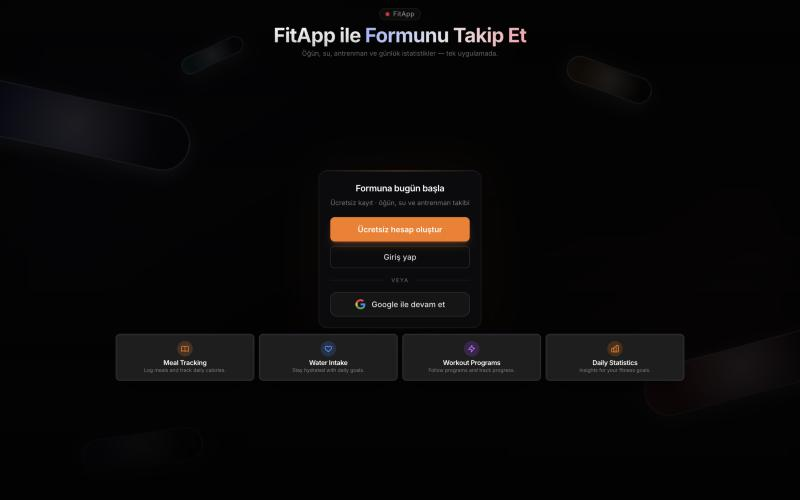
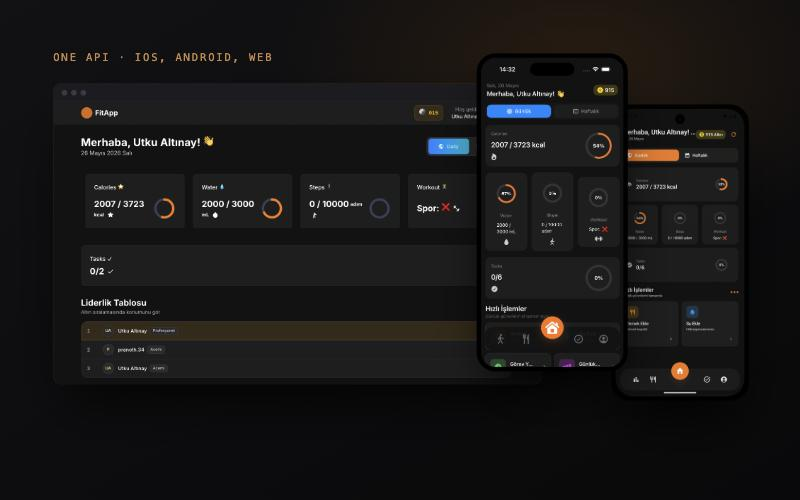
FitApp: real screenshots from all three clients, and a case study that matches them
The archive of device screenshots replaces the one remaining stand-in
cover: the new one puts the same dashboard on the web, on iOS and on
Android at once, which is the thing the project is actually about.

The write-up is rewritten against the four repositories rather than from
memory, because the screenshots show features the old copy never
mentioned. Corrections: the web client is Next.js, not plain React; the
API is .NET 8 over MySQL (Pomelo) on AWS with Cloudinary for media; and
the dates were a year out. Added, because they exist: a Gemini-backed
coach that runs server-side, daily and friend quests, a gold balance and
shop, a leaderboard, and chat over SignalR.

The unverifiable claim about Swift Charts is gone, replaced by decisions
the code can back up.

Changed region(s): [[0.0625, 0.0, 0.9375, 0.81], [0.0625, 0.09, 0.3438, 0.12]]

diff --git a/src/data/projects.ts b/src/data/projects.ts
@@ -9,75 +9,123 @@ const projectsData = [
   {
     slug: "fitapp",
     title: "FitApp",
-    tagline: "A cross-platform health tracker on a single shared backend.",
+    tagline: "One .NET API, three native clients, and the habits that keep someone coming back.",
     problem:
-      "Fitness tracking data is only useful when it follows the person, not the device. Building the same feature set three times — once per platform — would have meant three sources of truth and three sets of bugs.",
+      "Fitness tracking data is only useful when it follows the person, not the device — and a tracker nobody opens after the second week is not useful at all. Building the same feature set three times, once per platform, would have meant three sources of truth and three sets of bugs; building only the tracking would have meant an app with nothing to come back for.",
     solution:
-      "I designed one C# .NET API over MySQL as the single source of truth, then built thin native clients on top of it: SwiftUI on iOS, Kotlin on Android and React on the web. Auth, validation and business rules live in the API; the clients only present state and collect input.",
+      "One C# .NET 8 API over MySQL as the single source of truth, with thin clients on top: SwiftUI on iOS, Kotlin on Android and Next.js on the web. Beyond logging meals, water, steps and workouts, the server runs what makes it a habit — a Gemini-backed coach, daily and friend quests, a gold balance with a shop, a leaderboard, and chat over SignalR. Auth, validation and every rule live in the API; the clients present state and collect input.",
     impact:
-      "Adding a feature means one API change and three presentation layers, instead of three parallel implementations that drift apart.",
-    role: "Solo developer — API design, data model, all three clients and deployment.",
+      "A feature is one API change and three presentation layers, instead of three implementations that drift apart — and the reason to open it on day thirty is a server-side system rather than a notification.",
+    role:
+      "Solo developer — API design, data model, all three clients and deployment.",
     domain: "full-stack",
     status: "live",
     featured: true,
-    period: { start: "2025-06", end: "2025-09" },
+    period: { start: "2026-05", end: null },
     stack: [
       { name: "C#", kind: "language" },
-      { name: ".NET", kind: "framework" },
-      { name: "MySQL", kind: "database" },
       { name: "Swift", kind: "language" },
-      { name: "SwiftUI", kind: "framework" },
       { name: "Kotlin", kind: "language" },
-      { name: "React", kind: "framework" },
+      { name: "TypeScript", kind: "language" },
+      { name: ".NET 8", kind: "framework" },
+      { name: "SwiftUI", kind: "framework" },
+      { name: "Next.js", kind: "framework" },
+      { name: "EF Core", kind: "framework" },
+      { name: "SignalR", kind: "framework" },
+      { name: "MySQL", kind: "database" },
+      { name: "AWS", kind: "platform" },
       { name: "JWT", kind: "tooling" },
     ],
     architecture: [
       {
         name: "Clients",
-        tech: ["SwiftUI (iOS)", "Kotlin (Android)", "React (Web)"],
+        tech: ["SwiftUI (iOS)", "Kotlin (Android)", "Next.js (Web)"],
         responsibility:
-          "Render state and capture input. No business rules, so no platform can disagree with another.",
+          "Render state and capture input. No business rules, so no platform can disagree with another about a calorie, a streak or a balance.",
       },
       {
         name: "API",
-        tech: ["C# .NET", "JWT"],
+        tech: [".NET 8", "JWT", "BCrypt", "Google sign-in"],
         responsibility:
-          "Authentication, validation, calorie and activity calculations — the one place a rule is written down.",
+          "Authentication, validation and every calculation — the one place a rule is written down, behind an OpenAPI document the clients are built against.",
       },
       {
-        name: "Persistence",
-        tech: ["MySQL"],
+        name: "Engagement services",
+        tech: ["Gemini", "SignalR", "Daily & friend quests", "Gold and shop"],
         responsibility:
-          "Relational schema for users, meals, activity logs and daily targets.",
+          "The coach, the quests, the currency and the leaderboard: each its own service, because the part of a fitness app that decides whether it survives month one is not the part that adds up calories.",
+      },
+      {
+        name: "Persistence & media",
+        tech: ["EF Core 8", "MySQL on AWS RDS", "Cloudinary", "S3"],
+        responsibility:
+          "A relational schema for users, meals, workouts, quests and balances, grown through migrations rather than rewritten; images go to object storage, never into the database.",
       },
     ],
     decisions: [
       {
         title: "Business logic in the API, never in the client",
         rationale:
-          "A calorie formula duplicated across Swift, Kotlin and JavaScript is a formula that will eventually give three different answers. Keeping it server-side made the clients replaceable.",
+          "A calorie formula duplicated across Swift, Kotlin and TypeScript is a formula that will eventually give three different answers. Keeping it server-side made the clients replaceable — and made the web client possible at all without a fourth implementation.",
+      },
+      {
+        title: "The AI coach lives on the server",
+        rationale:
+          "Calling a model from three apps would mean shipping the key in three binaries and begging for an app-store release every time the prompt is wrong. The coach is one service behind the API: the key never leaves the server, and the advice can change on a Tuesday afternoon.",
+      },
+      {
+        title: "Gamification is a schema, not a feature flag",
+        rationale:
+          "Quests, gold, the shop and the leaderboard are their own tables and their own services rather than conditionals bolted onto the tracking code. Adding a quest type is a row; it is the difference between a system that grows and one that accumulates special cases.",
       },
       {
         title: "Stateless JWT auth",
         rationale:
-          "Three clients with different session lifecycles meant server-side sessions would have become the bottleneck. Token-based auth let each platform manage refresh in the way its own SDK expects.",
-      },
-      {
-        title: "Native charts instead of a shared web view",
-        rationale:
-          "Swift Charts renders weekly and monthly analysis at 60fps with no bridge. The cost is per-platform chart code; the benefit is an app that feels native where it matters most.",
+          "Three clients with different session lifecycles meant server-side sessions would have become the bottleneck. Token-based auth let each platform manage refresh the way its own SDK expects.",
       },
     ],
     links: {
       demo: "https://fitapp-fitapp-web.46.225.37.55.sslip.io/",
-      // No `github`: the repository is private.
+      // No `github`: the four repositories (iOS, Android, web, API) are private.
     },
     cover: {
       src: "/images/projects/fitapp.jpg",
-      alt: "The FitApp web client's landing screen: sign-up, and cards for meal, water, workout and statistics tracking.",
+      alt: "The FitApp dashboard shown on the web, on iOS and on Android at the same time.",
       width: 800,
       height: 500,
     },
+    gallery: [
+      {
+        src: "/images/projects/fitapp-ai-coach-ios.jpg",
+        alt: "The AI coach screen on iOS, answering a question about the day's plan.",
+        width: 750,
+        height: 1630,
+        caption:
+          "The Gemini-backed coach. It runs behind the API, so the key stays on the server and the prompt changes without an app release.",
+      },
+      {
+        src: "/images/projects/fitapp-leaderboard-android.jpg",
+        alt: "The leaderboard on Android, ranking users by their gold balance.",
+        width: 750,
+        height: 1673,
+        caption:
+          "Leaderboard, quests and a gold balance — the same services on every client, because the ranking has to agree with itself.",
+      },
+      {
+        src: "/images/projects/fitapp-workouts-web.jpg",
+        alt: "Workout programs on the web client, with exercises and progress.",
+        width: 1200,
+        height: 1272,
+        caption: "Workout programs on the web client, built from the same endpoints the phones use.",
+      },
+      {
+        src: "/images/projects/fitapp-report-web.jpg",
+        alt: "The daily report on the web client: calories, water, steps and workout totals.",
+        width: 1200,
+        height: 857,
+        caption: "The daily report — the numbers every client renders and none of them calculates.",
+      },
+    ],
   },
   {
     slug: "revio",

diff --git a/src/components/sections/tech-icon-slugs.ts b/src/components/sections/tech-icon-slugs.ts
@@ -76,6 +76,7 @@ const SLUG_BY_TECH_NAME: Record<string, string> = {
   supabase: "supabase",
   swift: "swift",
   swiftui: "swift",
+  "next.js 15": "nextdotjs",
   "tailwind css": "tailwindcss",
   typescript: "typescript",
   vercel: "vercel",
